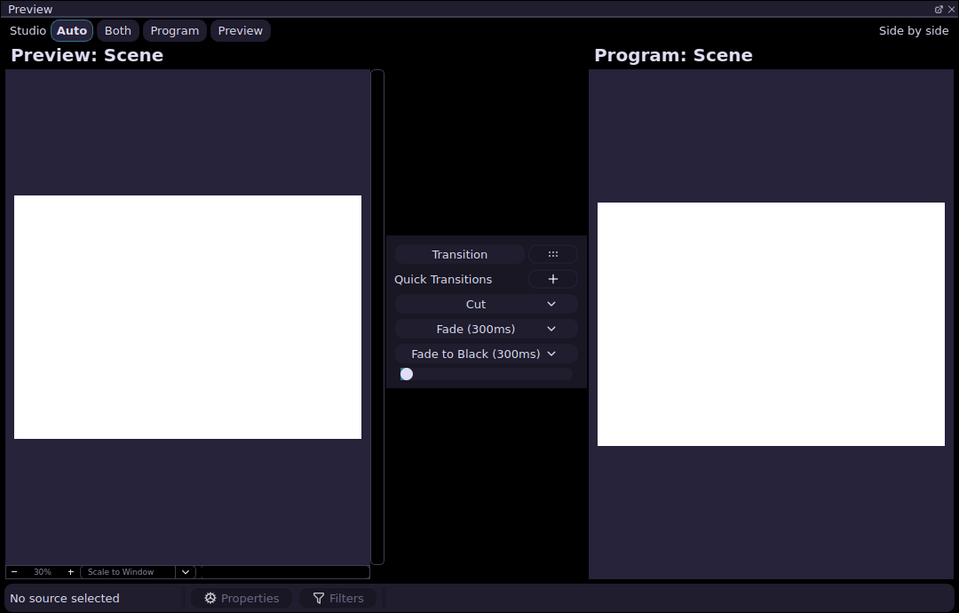
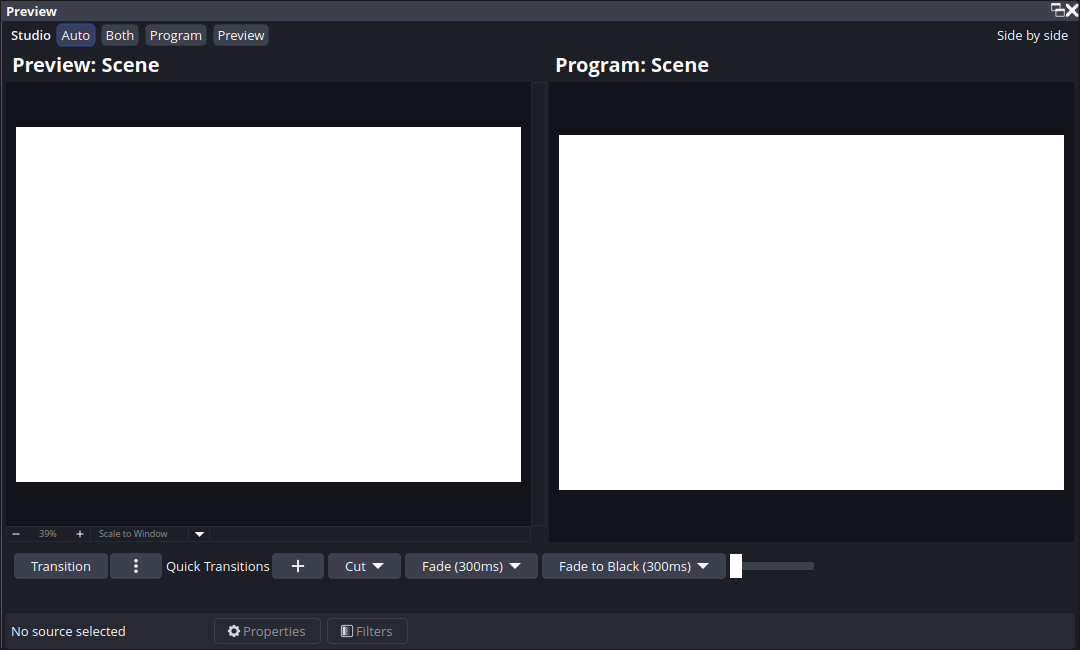
Place wide Studio Mode transition strip below both previews

diff --git a/src/panels.cpp b/src/panels.cpp
@@ -78,6 +78,7 @@ struct Panels::State {
         QPointer<QBoxLayout> studioOptionsLayout;
         QBoxLayout::Direction originalOptionsDirection=QBoxLayout::TopToBottom;
         Qt::Alignment originalOptionsAlignment;
+        int originalOptionsPosition=-1,originalOptionsStretch=0;
         QPointer<QLabel> programTitle,previewTitle;
         QFont originalProgramFont,originalPreviewFont,appliedProgramFont,appliedPreviewFont;
         bool studioPreviewHiddenByUs=false,studioProgramHiddenByUs=false;
@@ -281,12 +282,14 @@ void Panels::restoreStudioControlStrip() {
     auto *scroll=entry.transitionStrip.data();
     if(!scroll||!entry.canvasLayout)return;
     const int pos=entry.canvasLayout->indexOf(scroll);
+    if(auto *root=qobject_cast<QBoxLayout*>(entry.content->layout()))root->removeWidget(scroll);
     QWidget *widget=scroll->takeWidget(); // transfer OBS-owned widget, never delete it
     entry.canvasLayout->removeWidget(scroll);
-    if(widget&&pos>=0) {
+    if(widget) {
         widget->hide();
         widget->setParent(entry.canvas);
-        entry.canvasLayout->insertWidget(pos,widget);
+        const int restorePos=entry.originalOptionsPosition>=0?entry.originalOptionsPosition:pos;
+        entry.canvasLayout->insertWidget(restorePos,widget,entry.originalOptionsStretch);
         entry.canvasLayout->setAlignment(widget,entry.originalOptionsAlignment);
         widget->show();
     }
@@ -301,7 +304,16 @@ void Panels::updatePreviewLayout() {
     // changes. Read the live layout, never retain a stale raw program pointer.
     QWidget *options=nullptr,*program=nullptr;
     QBoxLayout *optionsLayout=nullptr;
-    if(studio&&entry.canvasLayout->count()>=4) {
+    auto *root=qobject_cast<QBoxLayout*>(entry.content->layout());
+    const bool stripBelow=entry.transitionStrip&&root&&root->indexOf(entry.transitionStrip)>=0;
+    if(studio&&stripBelow&&entry.canvasLayout->count()>=3){
+        options=entry.transitionStrip->widget();
+        program=entry.canvasLayout->itemAt(entry.canvasLayout->count()-1)->widget();
+        optionsLayout=options?qobject_cast<QBoxLayout*>(options->layout()):nullptr;
+        if(!optionsLayout||!program||!program->findChild<QLabel*>()){
+            options=nullptr;program=nullptr;optionsLayout=nullptr;
+        }
+    }else if(studio&&entry.canvasLayout->count()>=4) {
         options=entry.canvasLayout->itemAt(entry.canvasLayout->count()-2)->widget();
         if(auto *scroll=qobject_cast<QScrollArea*>(options))options=scroll->widget();
         program=entry.canvasLayout->itemAt(entry.canvasLayout->count()-1)->widget();
@@ -319,6 +331,8 @@ void Panels::updatePreviewLayout() {
             entry.originalOptionsDirection=optionsLayout->direction();
             const int idx=entry.canvasLayout->indexOf(options);
             entry.originalOptionsAlignment=idx>=0?entry.canvasLayout->itemAt(idx)->alignment():Qt::Alignment{};
+            entry.originalOptionsPosition=idx;
+            entry.originalOptionsStretch=idx>=0?entry.canvasLayout->stretch(idx):0;
         }
     }
     if(entry.studioProgram!=program) {
@@ -341,9 +355,10 @@ void Panels::updatePreviewLayout() {
     auto desired=compact?QBoxLayout::BottomToTop:entry.originalDirection;
     if(entry.canvasLayout->direction()!=desired)entry.canvasLayout->setDirection(desired);
     if(optionsLayout) {
-        const auto optionDirection=compact?QBoxLayout::LeftToRight:entry.originalOptionsDirection;
+        const bool horizontal=compact||(root&&root->direction()==QBoxLayout::TopToBottom&&root->indexOf(entry.canvas)>=0);
+        const auto optionDirection=horizontal?QBoxLayout::LeftToRight:entry.originalOptionsDirection;
         if(optionsLayout->direction()!=optionDirection)optionsLayout->setDirection(optionDirection);
-        if(compact&&!entry.transitionStrip&&entry.canvasLayout->indexOf(options)>=0) {
+        if(horizontal&&!entry.transitionStrip&&entry.canvasLayout->indexOf(options)>=0) {
             const int position=entry.canvasLayout->indexOf(options);
             options->hide();
             entry.canvasLayout->removeWidget(options);
@@ -373,8 +388,9 @@ void Panels::updatePreviewLayout() {
                     }
                 });
             });
-            auto updateArrows=[this,scroll] {
-                if(state->preview.transitionStrip!=scroll)return;
+            auto updateArrows=[this,safeScroll] {
+                if(!safeScroll||state->preview.transitionStrip!=safeScroll)return;
+                auto *scroll=safeScroll.data();
                 auto *bar=state->preview.studioToolbar.data();
                 if(!bar)return;
                 auto *sb=scroll->horizontalScrollBar();
@@ -394,10 +410,22 @@ void Panels::updatePreviewLayout() {
             connect(scroll->horizontalScrollBar(),&QScrollBar::valueChanged,this,
                 [this,updateArrows](int){QTimer::singleShot(0,this,updateArrows);});
             QTimer::singleShot(0,this,updateArrows);
-        } else if(!compact&&entry.transitionStrip) {
+        } else if(!horizontal&&entry.transitionStrip) {
             restoreStudioControlStrip();
         }
         if(auto *scroll=entry.transitionStrip.data()) {
+            // Preserve the original OBS widget and its QVBoxLayout object.
+            // Only the scroll wrapper moves: stacked between surfaces, wide
+            // below the canvas and above the native source context toolbar.
+            if(!compact&&root&&root->indexOf(scroll)<0){
+                entry.canvasLayout->removeWidget(scroll);
+                root->insertWidget(root->indexOf(entry.canvas)+1,scroll);
+                scroll->show();
+            }else if(compact&&entry.canvasLayout->indexOf(scroll)<0){
+                if(root)root->removeWidget(scroll);
+                entry.canvasLayout->insertWidget(entry.originalOptionsPosition,scroll);
+                scroll->show();
+            }
             if(options->size()!=options->sizeHint())options->adjustSize();
         }
     }
@@ -433,8 +461,8 @@ void Panels::updatePreviewLayout() {
         if(index>=0&&entry.canvasLayout->stretch(index)!=amount)
             entry.canvasLayout->setStretch(index,amount);
     };
-    applyStretch(entry.studioPreview,compact?(showProgram?0:showPreview?6:2):entry.originalPreviewStretch);
-    applyStretch(entry.studioProgram,compact?(showPreview?0:showProgram?6:3):entry.originalProgramStretch);
+    applyStretch(entry.studioPreview,compact?(showProgram?0:showPreview?6:2):studio&&optionsLayout?(showProgram?0:1):entry.originalPreviewStretch);
+    applyStretch(entry.studioProgram,compact?(showPreview?0:showProgram?6:3):studio&&optionsLayout?(showPreview?0:1):entry.originalProgramStretch);
     auto *nativePreviewTitle=entry.studioPreview?
         entry.studioPreview->findChild<QLabel*>("previewLabel"):nullptr;
     auto *nativeProgramTitle=entry.studioProgram?

diff --git a/tests/panels-test.cpp b/tests/panels-test.cpp
@@ -68,14 +68,16 @@ int main(int argc,char **argv) {
  bool animateDocks=true;
  augment::Panels motionPanels(nullptr,[&]{return animateDocks;});
  REQUIRE(motionPanels.canCollapse(a));
+ const int animationStartHeight=a->height();
  REQUIRE(motionPanels.toggle(a));
  REQUIRE(motionPanels.collapsed(a));
  auto *collapseMotion=a->findChild<QPropertyAnimation*>("aftermarket-dock-height-motion");
  REQUIRE(collapseMotion&&collapseMotion->state()==QAbstractAnimation::Running);
- QEventLoop partial;
- QTimer::singleShot(65,&partial,&QEventLoop::quit);partial.exec();
- REQUIRE(a->maximumHeight()<height);
- REQUIRE(a->height()<height);
+ // Advance the animation clock explicitly rather than depending on timer
+ // scheduling under load. Compare against the current single-dock geometry.
+ collapseMotion->setCurrentTime(65);app.processEvents();
+ REQUIRE(a->maximumHeight()<animationStartHeight);
+ REQUIRE(a->height()<animationStartHeight);
  REQUIRE(a->height()>45); // intermediate actual native dock height
  REQUIRE(motionPanels.toggle(a)); // reverse before collapse completes
  REQUIRE(!motionPanels.collapsed(a));
@@ -297,17 +299,28 @@ int main(int argc,char **argv) {
  REQUIRE(previewPane->isVisible()&&programPane->isVisible());
  REQUIRE(panels.setStudioViewMode(&responsive,augment::Panels::StudioViewMode::Auto));app.processEvents();
  REQUIRE(autoButton->isChecked());
- // In a roomy floating dock, controls and views return to a wide split.
+ // Wide dock retains the same horizontal strip below both views.
  auto *responsiveDock=panels.previewDock(&responsive);
  responsiveDock->setFloating(true);responsiveDock->resize(1050,650);app.processEvents();
  REQUIRE(editorLayout->direction()==QBoxLayout::LeftToRight);
- REQUIRE(optionsLayout->direction()==QBoxLayout::TopToBottom);
- REQUIRE(editorLayout->indexOf(options)>=0&&strip.isNull());
+ REQUIRE(optionsLayout->direction()==QBoxLayout::LeftToRight);
+ REQUIRE(strip&&strip->widget()==options);
+ REQUIRE(workspaceLayout->indexOf(strip)==workspaceLayout->indexOf(editor)+1);
+ REQUIRE(editorLayout->indexOf(strip)<0&&editorLayout->count()==3);
+ REQUIRE(previewPane->geometry().right()<programPane->geometry().left());
+ REQUIRE(qAbs(previewPane->width()-programPane->width())<=4);
+ REQUIRE(strip->mapToGlobal(QPoint()).y()>=editor->mapToGlobal(QPoint(0,editor->height())).y());
+ REQUIRE(strip->width()>=editor->width()-4);
+ REQUIRE(panels.setStudioViewMode(&responsive,augment::Panels::StudioViewMode::Program));app.processEvents();
+ REQUIRE(!previewPane->isVisible()&&programPane->isVisible()&&strip->isVisible());
+ REQUIRE(panels.setStudioViewMode(&responsive,augment::Panels::StudioViewMode::Both));app.processEvents();
+ REQUIRE(previewPane->isVisible()&&programPane->isVisible());
  responsiveDock->resize(430,580);app.processEvents();
  REQUIRE(editorLayout->direction()==QBoxLayout::BottomToTop);
  REQUIRE(optionsLayout->direction()==QBoxLayout::LeftToRight);
  strip=editor->findChild<QScrollArea*>("aftermarket-studio-transition-strip");
  REQUIRE(!strip.isNull()&&strip->widget()==options);
+ REQUIRE(editorLayout->indexOf(strip)==2&&workspaceLayout->indexOf(strip)<0);
  REQUIRE(panels.setPreviewDocked(&responsive,false));app.processEvents();
  REQUIRE(responsive.centralWidget()==workspace);
  REQUIRE(workspace->findChild<QWidget*>("aftermarket-studio-toolbar")==nullptr);
@@ -319,7 +332,10 @@ int main(int argc,char **argv) {
  // OBS deletes programOptions and programWidget on Studio Mode exit.
  // The temporary scroll container must disappear before a new studio set.
  REQUIRE(panels.setPreviewDocked(&responsive,true));app.processEvents();
- QPointer<QScrollArea> oldStrip=editor->findChild<QScrollArea*>("aftermarket-studio-transition-strip");
+ auto *exitDock=panels.previewDock(&responsive);
+ exitDock->setFloating(true);exitDock->resize(1050,650);app.processEvents();
+ QPointer<QScrollArea> oldStrip=workspace->findChild<QScrollArea*>("aftermarket-studio-transition-strip");
+ REQUIRE(workspaceLayout->indexOf(oldStrip)>=0);
  REQUIRE(oldStrip);
  delete options;
  delete programPane;
@@ -334,7 +350,7 @@ int main(int argc,char **argv) {
  nextProgramLayout->addWidget(new QLabel("Program scene",nextProgram));
  editorLayout->addWidget(nextOptions);editorLayout->addWidget(nextProgram);
  app.processEvents();
- auto *newStrip=editor->findChild<QScrollArea*>("aftermarket-studio-transition-strip");
+ auto *newStrip=workspace->findChild<QScrollArea*>("aftermarket-studio-transition-strip");
  REQUIRE(newStrip&&newStrip->widget()==nextOptions);
  REQUIRE(panels.setPreviewDocked(&responsive,false));app.processEvents();
  REQUIRE(editorLayout->indexOf(nextOptions)>=0);

diff --git a/ACTIVE_WORK.md b/ACTIVE_WORK.md
@@ -2986,3 +2986,10 @@ Final confirmation: full 34/34 CTest cases passed; headless OBS routing test pas
 Added persistent per-device visibility in the existing routing title menu, atomic JSON saved by device ID, independent of OBS filters. Unchecking never changes routing or audio; renamed devices retain visibility. Connected but muted/disabled sends retain dashed wires, duplicate drag is idempotent. Independent mute uses actual Audio Monitor filter gain zero and stores the desired gain separately on its settings, not filter enable (upstream automatically re-enables on scene activation). Gain edits while muted preserve silence; unmute restores chosen gain. External and linked filters remain protected. Actual independent device metering and linked-volume modes remain open.
 
 RED: focused tests failed before visibility/mute APIs existed. GREEN: Qt regression verified saved visibility across widget recreation/rename and no filter deletion; libobs regression verified actual gain zero, re-enable while muted, gain edit and restoration, invalid values. Isolated OBS 32.2.0 + Audio Monitor 0.10.1 real virtual PipeWire sink: wire editor mute retained filter, filter volume 0, gain edit while muted left 0, reopened editor retained mute, unmuted to 25%, disconnected unchanged native track/monitor. Captured RMS 1339.3 before mute, 0.0 during, 71.2 after unmute. Evidence /tmp/aftermarket-device-options-native-20261124/obs.log and capture-mute.raw. No physical speaker playback; virtual sink removed. Full 34/34 CTest passed. Regular OBS running, no production binary replacement or restart; no push.
+
+
+## Wide Studio Mode bottom transition strip — 2026-11-24
+
+User annotated the README Studio Mode comparison to remove the central vertical transition column from wide layout, reuse the compact horizontal strip below the two wide views, and reclaim the central display area. Keep original OBS controls, original QVBoxLayout class, quick transition signal identity, scrollbar/chevrons and original fixed-preview restoration. Wide places the same QScrollArea wrapper in the central vertical layout directly below canvasEditor and above source context controls; narrow places it back in the original canvas slot. Wide displays have equal stretch; native Preview includes extra built-in margins/zoom controls, so its outer widget can be slightly wider. Existing focus modes retained. Studio exit/re-entry cleans up wrapper without deleting native controls. Original option position/alignment/stretch restored. Deferred arrow callbacks now use QPointer.
+
+RED focused regression at horizontal wide strip; GREEN verifies layout positions, equal stretch in synthetic host, wide focus, narrow reflow, native object identity, exit/re-entry and restoration. Fixed recurrent test-only dock-animation timing flake by explicitly advancing animation clock and comparing current pre-animation height (not earlier two-dock geometry). Full 34/34 CTest passed. Actual isolated OBS 32.2.0 Xvfb probe: wide native Preview 541x492, Program 525x492; horizontal strip 1070x66 directly below both; narrow 568px strip remains between stacked displays; wide→narrow→wide and Studio off/on passed. Native screenshot visually inspected and README wide screenshot replaced. Initial probe's strict 4px outer-widget width assertion was too narrow for real OBS Preview's built-in extra margins; final tolerance 24px, no native size policy overrides. Runtime receipts /tmp/aftermarket-studio-bottom-20261124/obs-confirm.log and studio-wide.png. No regular OBS restart/install or push.

diff --git a/docs/user-guide.md b/docs/user-guide.md
@@ -225,8 +225,9 @@ OBS Studio Mode is active. It provides four session-only display choices:
   dock, Program receives slightly more of the available height.
 - **Program / Preview:** focus that one original OBS display without replacing
   its renderer. Switch back to Both or Auto any time.
-- **Transition strip:** when stacked, the *original OBS control widget* becomes
-  a compact horizontal, scrollable bar. The chevrons reveal the remaining
+- **Transition strip:** the *original OBS control widget* is a compact horizontal,
+  scrollable bar in both layouts. It sits between the stacked displays in narrow
+  docks and spans the full width below both displays in wide docks. The chevrons reveal the remaining
   native quick-transition buttons and T-bar; their original click handlers
   and sliders are not proxied or replaced.
 
@@ -237,7 +238,7 @@ off and back on also safely reconstructs the strip.
 
 | Compact dock | Wide floating dock |
 | --- | --- |
-| ![Aftermarket compact Studio Mode with stacked live displays and horizontally scrollable native transition controls](screenshots/readme/studio-compact.png) | ![Aftermarket side-by-side Studio Mode with native centered transitions](screenshots/readme/studio-wide.png) |
+| ![Aftermarket compact Studio Mode with stacked live displays and horizontally scrollable native transition controls](screenshots/readme/studio-compact.png) | ![Aftermarket side-by-side Studio Mode with a full-width native transition strip beneath both displays](screenshots/readme/studio-wide.png) |
 
 **Session-only and opt-in.** It does not change existing theme files or
 `rules.json`. The normal OBS File → Exit path was checked in an isolated

diff --git a/README.md b/README.md
@@ -74,7 +74,7 @@ preserve native dock placement, not scene or audio settings.
 
 | Compact Studio Mode | Wide floating Studio Mode |
 | :---: | :---: |
-| ![Stacked native Preview and Program](docs/screenshots/readme/studio-compact.png) | ![Side-by-side native Preview and Program](docs/screenshots/readme/studio-wide.png) |
+| ![Stacked native Preview and Program](docs/screenshots/readme/studio-compact.png) | ![Side-by-side native Preview and Program with horizontal transition strip below](docs/screenshots/readme/studio-wide.png) |
 
 ### Action Strip
 
